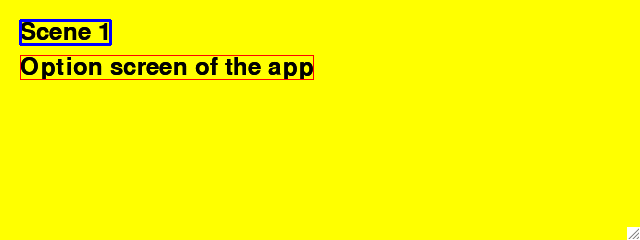
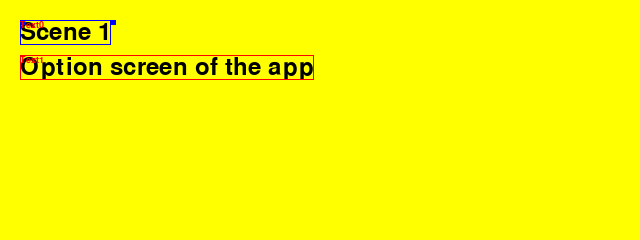
updated images (without resize)

Changed region(s): [[0.0312, 0.2333, 0.5, 0.3208], [0.0312, 0.0583, 0.1875, 0.2042], [0.9688, 0.9333, 1.0, 1.0]]

diff --git a/docs/5_app/app.py b/docs/5_app/app.py
@@ -15,7 +15,7 @@ class App:
     def __init__(self):
         """Initialize pygame and the application."""
         pygame.init()
-        self.flags = RESIZABLE
+        self.flags = 0
         self.rect = Rect(0, 0, 640, 240)
         App.screen = pygame.display.set_mode(self.rect.size, self.flags)
 

diff --git a/docs/sphinx.rst b/docs/sphinx.rst
@@ -1,5 +1,45 @@
-Sandbox
-=======
+About Sphinx
+============
+
+Sphinx is a tool for making documentation. It was originally created for the
+Python documentation (https://docs.python.org/3/), but is now used for many other software projects.
+
+Sphinx uses reStructuredText as its markup language.
+
+It can produce HTML, LaTeX, ePub and PDF documents.
+
+Getting started
+---------------
+
+After installation, you can get started quickly with the tool **sphinx-quickstart**. Just enter::
+
+   $ sphinx-quickstart
+
+Answer each question. Be sure to say *yes* to the **autodoc** extension.
+This creates a directory several documents:
+
+- *conf.py* file, the default configuration file
+- index.rst file, the master document
+
+The *conf.py* is where you can configure all aspects of Sphinx.
+The *index.rst* is the 
+
+The *toctree* directive determines the content of the document. For this document it looks 
+like this::
+
+   .. toctree::
+      :maxdepth: 2
+      :caption: Contents:
+
+      1_intro/intro
+      2_draw/draw
+      3_image/image
+      4_text/text
+      5_app/app
+      6_gui/gui
+      7_sound/sound
+      tutorial4/board
+      sphinx
 
 .. default-domain:: py
 

diff --git a/docs/index.rst b/docs/index.rst
@@ -23,8 +23,7 @@ approach to making apps.
    6_gui/gui
    7_sound/sound
    tutorial4/board
-   sandbox
-   todo
+   sphinx
 
 Indices and tables
 ==================
